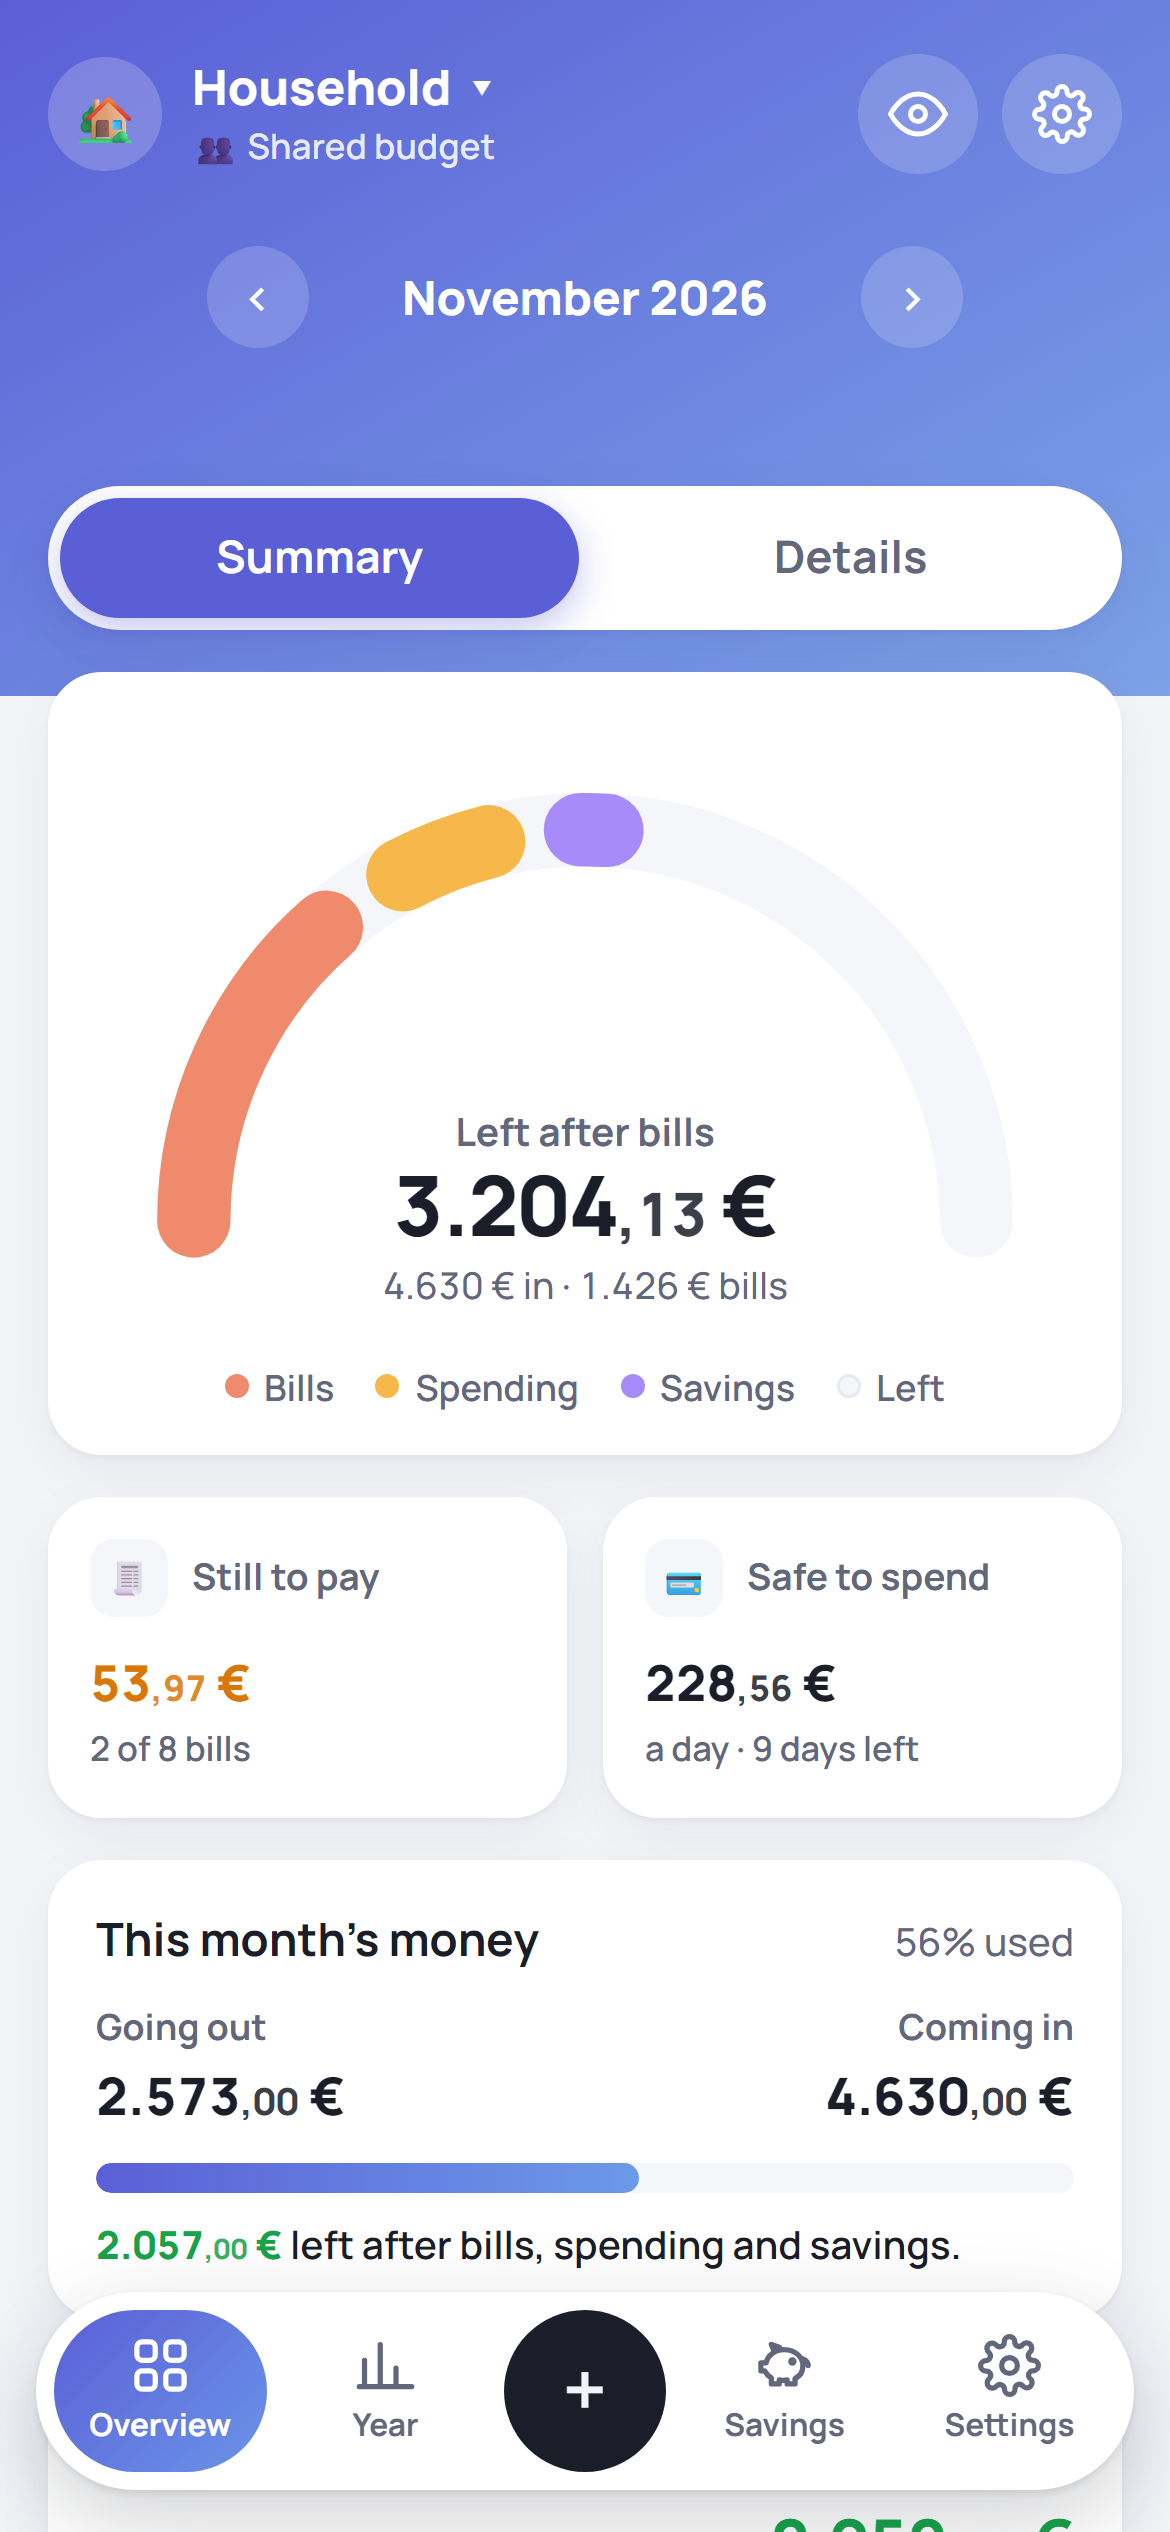
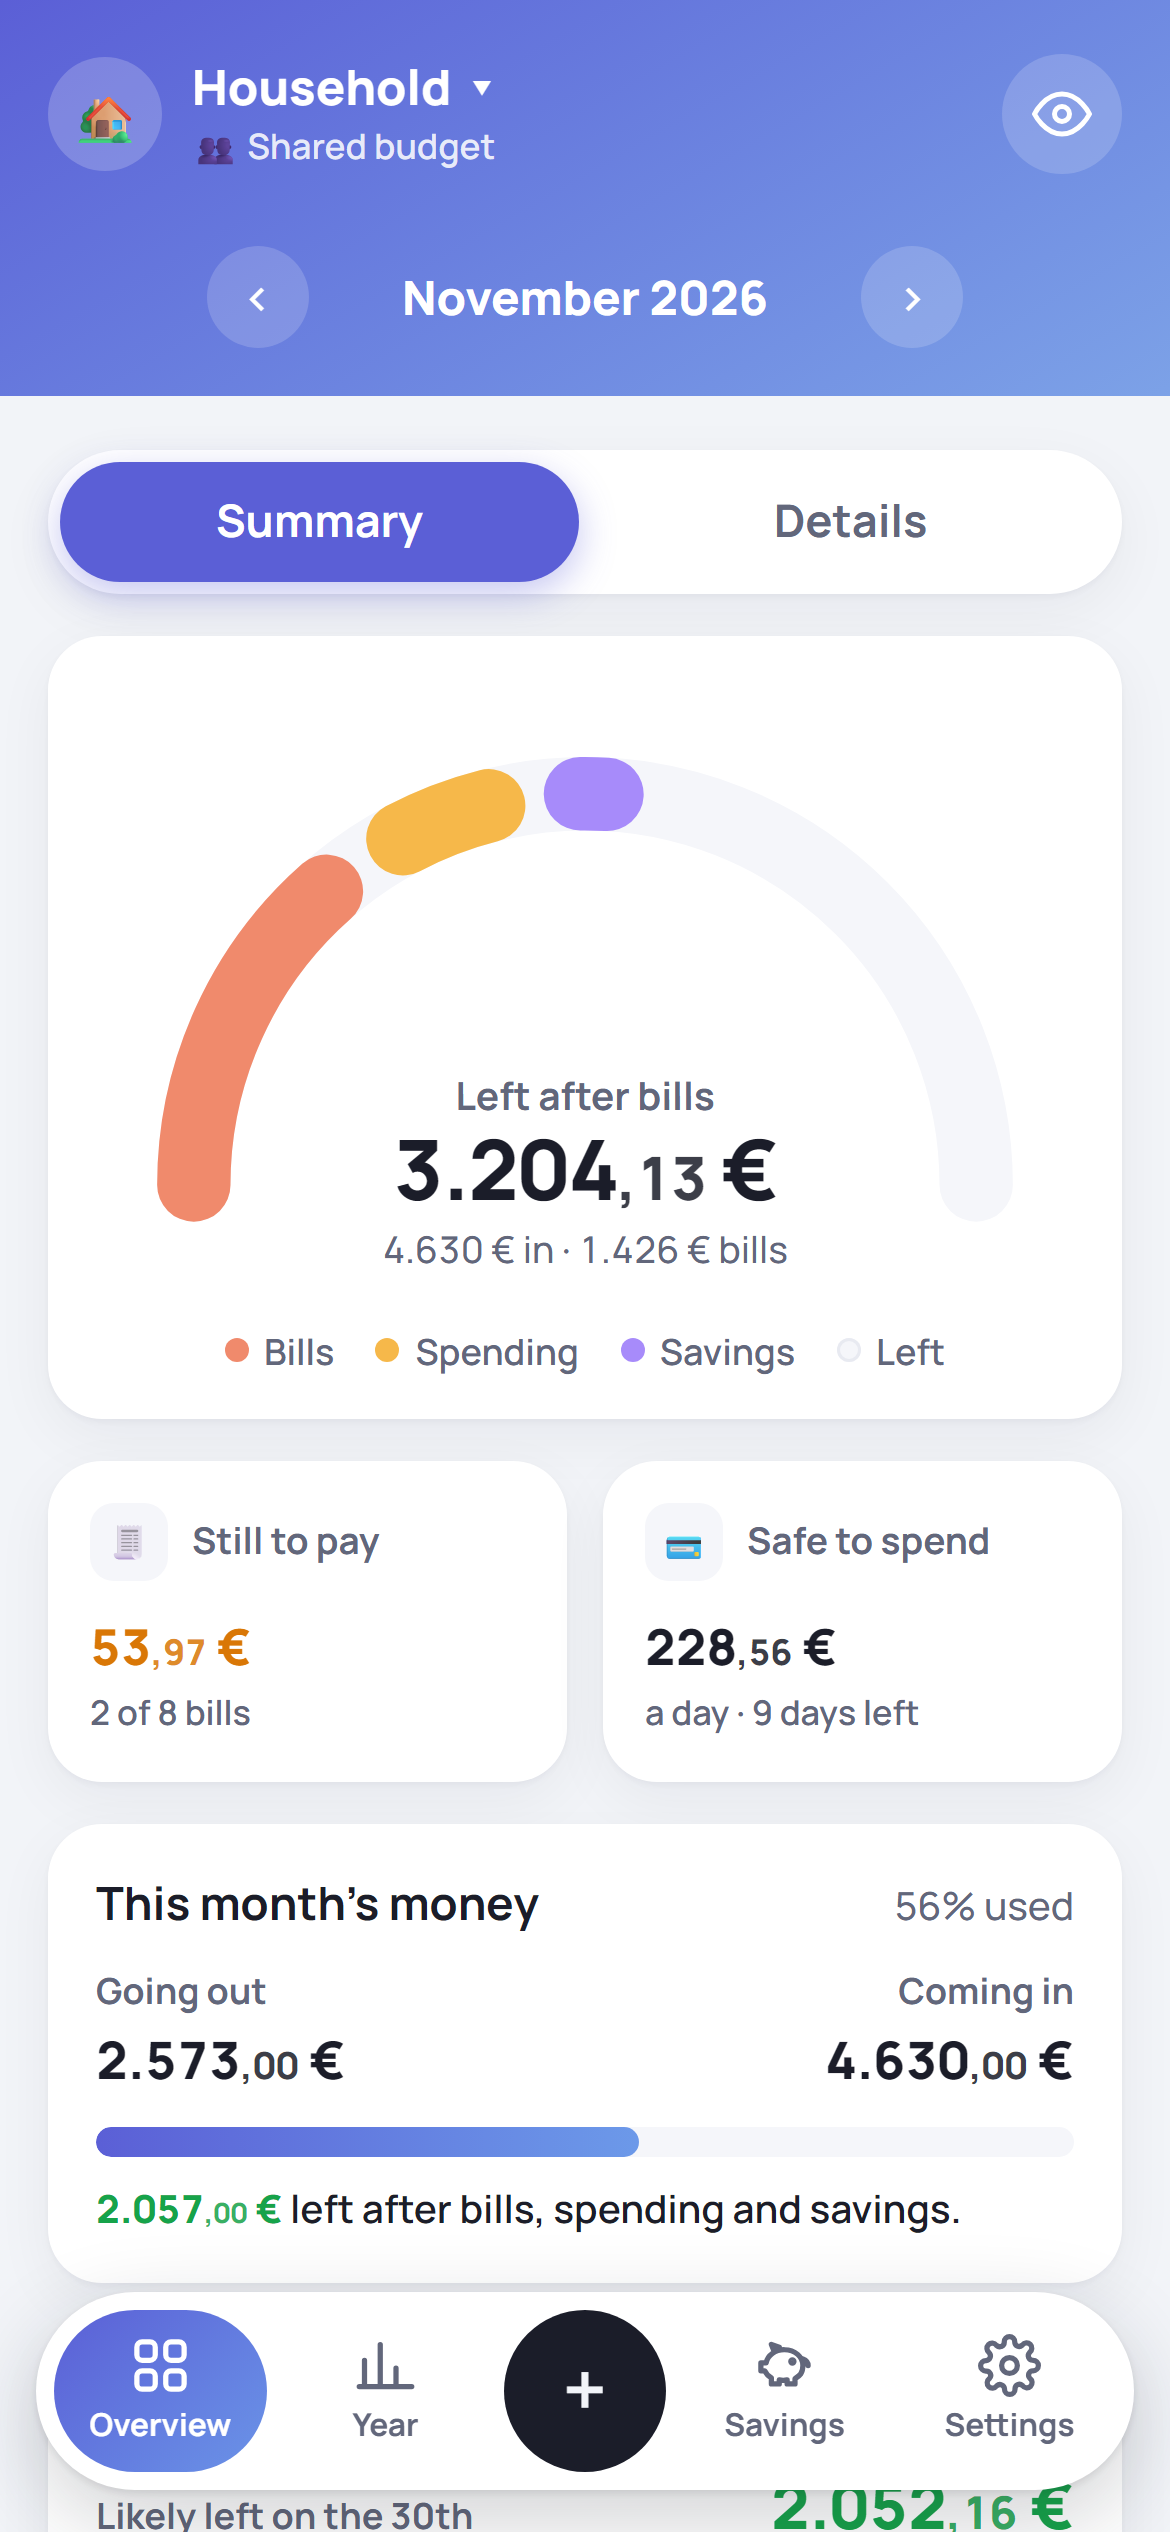
Faster start: Firebase pieces load in parallel and are preloaded, font no longer blocks the first paint, offline fallback after 1.5 s; header colour stops above the cards, settings only in the bottom bar (20261122j)

diff --git a/docs/index.html b/docs/index.html
@@ -11,7 +11,14 @@
 <link rel="apple-touch-icon" href="icons/icon-192.png">
 <link rel="preconnect" href="https://fonts.googleapis.com">
 <link rel="preconnect" href="https://fonts.gstatic.com" crossorigin>
-<link href="https://fonts.googleapis.com/css2?family=Manrope:wght@500;600;700;800&display=swap" rel="stylesheet">
+<!-- the font loads without holding up the first paint -->
+<link href="https://fonts.googleapis.com/css2?family=Manrope:wght@500;600;700;800&display=swap" rel="stylesheet" media="print" onload="this.media='all'">
+<!-- start fetching Firebase right away, in parallel with the page -->
+<link rel="modulepreload" href="https://www.gstatic.com/firebasejs/10.12.2/firebase-app.js" crossorigin>
+<link rel="modulepreload" href="https://www.gstatic.com/firebasejs/10.12.2/firebase-auth.js" crossorigin>
+<link rel="modulepreload" href="https://www.gstatic.com/firebasejs/10.12.2/firebase-firestore.js" crossorigin>
+<link rel="preconnect" href="https://firestore.googleapis.com" crossorigin>
+<link rel="preconnect" href="https://identitytoolkit.googleapis.com" crossorigin>
 <script>
 // apply the saved look before anything paints (no flash of the wrong theme)
 try { const l = JSON.parse(localStorage.getItem("budget.look") || "{}");
@@ -57,8 +64,8 @@ body.hide .money{filter:blur(.42em);user-select:none}
 
 /* ---------- coloured header ---------- */
 .head{background:linear-gradient(150deg,var(--head1),var(--head2));color:#fff;padding-top:env(safe-area-inset-top)}
-.head.tall{padding-bottom:86px}
-.head.short{padding-bottom:58px}
+.head.tall{padding-bottom:16px}
+.head.short{padding-bottom:20px}
 .topin{display:flex;align-items:center;gap:8px;padding:14px 0 6px}
 .bsel{display:flex;align-items:center;gap:10px;border:none;background:none;color:#fff;padding:4px 8px 4px 4px;margin-left:-4px;border-radius:14px;min-width:0;text-align:left}
 .bsel:hover{background:#ffffff1f}
@@ -77,8 +84,8 @@ body.hide .money{filter:blur(.42em);user-select:none}
 .nav .gb{width:34px;height:34px;font-size:1.1em}
 .pill{border:none;background:#ffffff2b;color:#fff;border-radius:999px;padding:5px 12px;font-size:.82em;font-weight:700}
 .pill:hover{background:#ffffff45}
-main.wrap{margin-top:-70px;position:relative}
-.head.short + main.wrap{margin-top:-44px}
+main.wrap{margin-top:18px;position:relative}
+.head.short + main.wrap{margin-top:18px}
 
 /* ---------- cards ---------- */
 .grid{display:grid;gap:14px;grid-template-columns:minmax(0,1fr)}
@@ -362,8 +369,8 @@ body{padding-bottom:calc(100px + env(safe-area-inset-bottom))}
 .savempty>*{position:relative;z-index:1}
 .savempty .e{font-size:3.2em}
 </style>
-<script src="config.js?v=20261122i"></script>
-<script type="module" src="cloud.js?v=20261122i"></script>
+<script src="config.js?v=20261122j"></script>
+<script type="module" src="cloud.js?v=20261122j"></script>
 </head>
 <body>
 <div id="app"></div>
@@ -372,7 +379,7 @@ body{padding-bottom:calc(100px + env(safe-area-inset-bottom))}
 
 <script>
 "use strict";
-const APP_VERSION = "20261122i";
+const APP_VERSION = "20261122j";
 // demo mode: no Firebase config, or ?demo on a local test server (never touches the real account)
 const LOCAL = !window.BUDGET_FIREBASE || (/^(localhost|127\.0\.0\.1)$/.test(location.hostname) && /[?&]demo\b/.test(location.search));
 
@@ -654,14 +661,13 @@ function render() {
           <span style="min-width:0"><span class="t">${esc(b?.name || "Budget")} ▾</span><span class="s">${kindLine}</span></span></button>
         <span class="sp"></span>
         <button class="gb" data-act="hide" title="${S.hide ? "Show amounts" : "Hide amounts"}">${S.hide ? ICON.eyeoff : ICON.eye}</button>
-        <button class="gb" data-act="settings" title="Settings">${ICON.gear}</button>
       </div>
       ${S.view !== "goals" ? `<div class="nav">
         <button class="gb" data-act="prev" title="Previous">‹</button>
         <div class="lbl">${esc(navLbl)}</div>
         <button class="gb" data-act="next" title="Next">›</button>
       </div>
-      <div style="text-align:center;min-height:30px;padding-top:6px">${atNow ? "" : `<button class="pill" data-act="now">Back to today</button>`}</div>` : `<div class="nav"><div class="lbl">Savings goals</div></div>`}
+      ${atNow ? "" : `<div style="text-align:center;padding-top:10px"><button class="pill" data-act="now">Back to today</button></div>`}` : `<div class="nav"><div class="lbl">Savings goals</div></div>`}
     </div></header>
     <main class="wrap">${body}
       <p class="muted small foot">${b?.kind === "shared" ? `Shared with ${esc(sharedWith(b))}` : "🔒 Only you can see this budget"}</p>

diff --git a/docs/cloud.js b/docs/cloud.js
@@ -12,9 +12,8 @@ const cfg = window.BUDGET_FIREBASE;
 
 if (cfg) {
   try {
-    const { initializeApp } = await import(`https://www.gstatic.com/firebasejs/${V}/firebase-app.js`);
-    const A = await import(`https://www.gstatic.com/firebasejs/${V}/firebase-auth.js`);
-    const F = await import(`https://www.gstatic.com/firebasejs/${V}/firebase-firestore.js`);
+    // the three Firebase pieces download at the same time (not one after another)
+    const [{ initializeApp }, A, F] = await Promise.all(["app", "auth", "firestore"].map(n => import(`https://www.gstatic.com/firebasejs/${V}/firebase-${n}.js`)));
     const app = initializeApp(cfg);
     const auth = A.getAuth(app);
     let fs;
@@ -30,7 +29,7 @@ if (cfg) {
       [k, v === null ? F.deleteField() : (v && typeof v === "object" && !Array.isArray(v)) ? nulls(v) : v]));
 
     window.Cloud = {
-      version: "20261122i",   // must match APP_VERSION in index.html
+      version: "20261122j",   // must match APP_VERSION in index.html
       signIn: (email, pw) => A.signInWithEmailAndPassword(auth, email, pw),
       signOut: () => A.signOut(auth),
       resetPassword: email => A.sendPasswordResetEmail(auth, email),

diff --git a/docs/sw.js b/docs/sw.js
@@ -1,9 +1,9 @@
 // Network first: online you always get the newest version from GitHub; if GitHub can't be reached,
-// answers with an error page, or takes more than a few seconds, the last saved copy opens instead
+// answers with an error page, or takes more than 1.5 seconds, the last saved copy opens instead
 // (and the newer version still downloads in the background for next time).
 // Only the app's own files, fonts and the Firebase library are handled; Firebase's data traffic passes straight through.
 const CACHE = "budget-v1";
-const WAIT_MS = 4000;
+const WAIT_MS = 1500;   // GitHub slower than this: open the saved copy now, the new one is used next time
 const handled = url => url.origin === location.origin || url.hostname === "fonts.googleapis.com" || url.hostname === "fonts.gstatic.com" || url.href.startsWith("https://www.gstatic.com/firebasejs/");
 const good = res => res.ok || res.type === "opaque";   // cross-site font CSS comes back opaque
 
